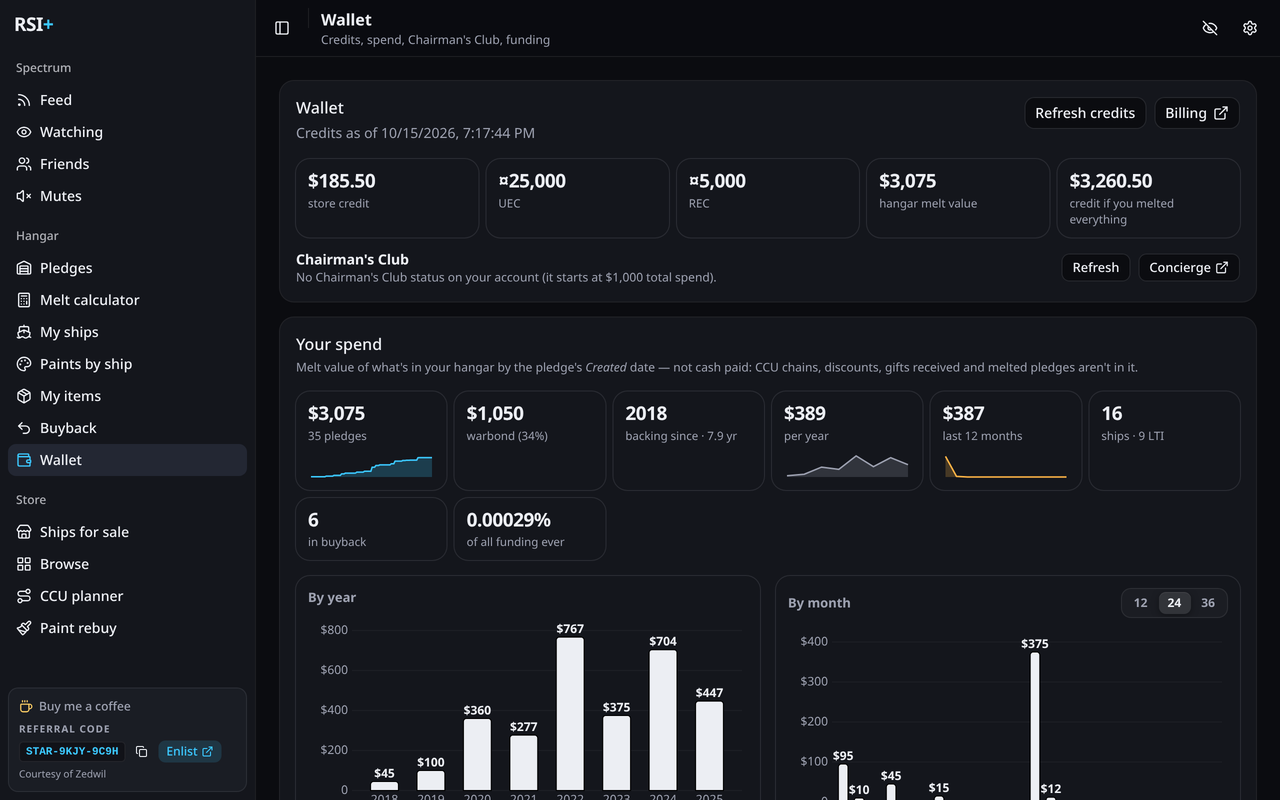
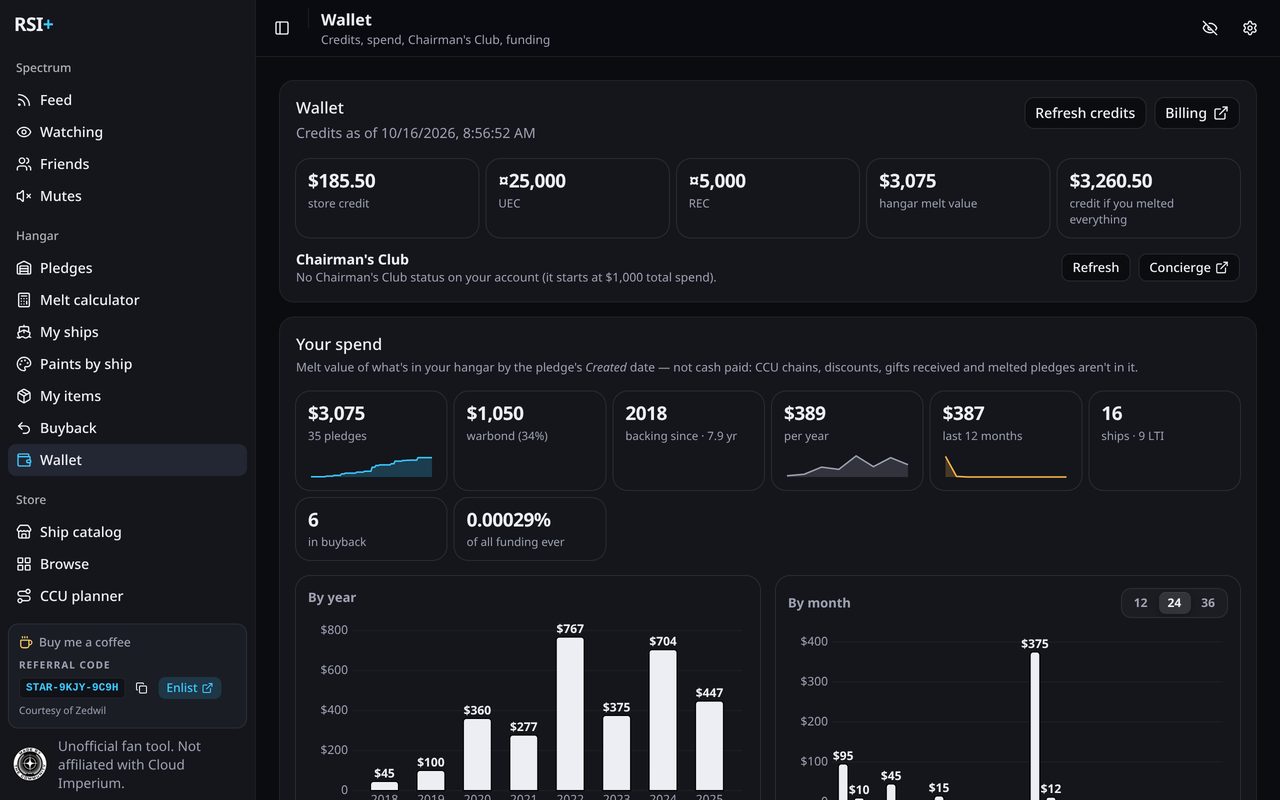
feat: Made By The Community badge and fan-project trademark notice (sidebar, page footer, popup)

diff --git a/src/components/FanNotice.svelte b/src/components/FanNotice.svelte
@@ -1,0 +1,48 @@
+<script lang="ts">
+  /**
+   * Star Citizen Fankit requirements (08_Fankit_Guidelines.pdf, 2025-11-19): the *Made By The Community* logo
+   * (unaltered: no recolour, flip, distortion, outline or shadow; ≥ 50 % opacity; legible size) together with the
+   * trademark notice, in a legible font no smaller than 10 pt, in an always-visible navigation area and/or the home
+   * page. Plus our own "not affiliated" line. White badge on dark themes, black badge on light themes (both are the
+   * kit's own files, only resized — public/fankit/).
+   * - `sidebar`: hub sidebar footer, always visible: badge + one short "unofficial" line (full notice as tooltip);
+   *   collapsed to icons, just the badge. Kept short so the nav above isn't pushed off-screen.
+   * - `footer`: under every hub page, the full notice (the Feed home page included; covers the mobile sheet).
+   * - `popup`: bottom of the toolbar popup.
+   */
+  import * as Tooltip from '@/components/ui/tooltip';
+  import { cn } from '@/lib/utils';
+
+  let { variant = 'footer', collapsed = false, class: klass = '' }: { variant?: 'sidebar' | 'footer' | 'popup'; collapsed?: boolean; class?: string } = $props();
+
+  const TRADEMARK = 'Star Citizen®, Roberts Space Industries® and Cloud Imperium® are registered trademarks of Cloud Imperium Rights LLC.';
+  const UNOFFICIAL = 'RSI+ is an unofficial Star Citizen fan tool, not affiliated with or endorsed by the Cloud Imperium group of companies.';
+  const SHORT = 'Unofficial fan tool. Not affiliated with Cloud Imperium.';
+  const size = 44;
+</script>
+
+{#snippet badge(px: number)}
+  <span class="inline-flex shrink-0" style:width={`${px}px`} style:height={`${px}px`}>
+    <img src="/fankit/made-by-the-community-white.png" alt="Made By The Community" width={px} height={px} class="block [[data-theme=light]_&]:hidden" />
+    <img src="/fankit/made-by-the-community-black.png" alt="Made By The Community" width={px} height={px} class="hidden [[data-theme=light]_&]:block" />
+  </span>
+{/snippet}
+
+{#if variant === 'sidebar'}
+  <Tooltip.Root>
+    <Tooltip.Trigger class={cn('text-muted-foreground flex cursor-default items-center gap-2.5 text-left text-[13.5px] leading-snug', collapsed && 'mx-auto', klass)} aria-label="Made By The Community, unofficial fan tool">
+      {@render badge(collapsed ? 32 : 36)}
+      {#if !collapsed}<span>{SHORT}</span>{/if}
+    </Tooltip.Trigger>
+    <Tooltip.Content side="right" class="max-w-72 text-[13.5px] leading-snug">{UNOFFICIAL} {TRADEMARK}</Tooltip.Content>
+  </Tooltip.Root>
+{:else}
+  <!-- 13.5px ≈ 10pt: the guidelines' minimum for the notice. -->
+  <aside class={cn('text-muted-foreground flex items-start gap-2.5 text-[13.5px] leading-snug', variant === 'footer' && 'border-t pt-4', klass)} aria-label="Fan project notice">
+    {@render badge(size)}
+    <p class="m-0 grid gap-1">
+      <span>{UNOFFICIAL}</span>
+      <span>{TRADEMARK}</span>
+    </p>
+  </aside>
+{/if}

diff --git a/src/entrypoints/hub/Hub.svelte b/src/entrypoints/hub/Hub.svelte
@@ -16,6 +16,8 @@
   import AccountSwitch from '@/components/AccountSwitch.svelte';
   import NavItem from './NavItem.svelte';
   import SidebarSupport from './SidebarSupport.svelte';
+  import FanNotice from '@/components/FanNotice.svelte';
+  import SidebarFan from './SidebarFan.svelte';
   import * as Sidebar from '@/components/ui/sidebar';
   import * as Tooltip from '@/components/ui/tooltip';
   import { Separator } from '@/components/ui/separator';
@@ -184,6 +186,7 @@
       </Sidebar.Content>
       <Sidebar.Footer>
         <SidebarSupport />
+        <SidebarFan />
       </Sidebar.Footer>
       <Sidebar.Rail />
     </Sidebar.Root>
@@ -248,6 +251,7 @@
         {:else}
           <MutesPanel />
         {/if}
+        <FanNotice variant="footer" class="mt-10" />
       </main>
     </Sidebar.Inset>
   </Sidebar.Provider>

diff --git a/src/entrypoints/popup/App.svelte b/src/entrypoints/popup/App.svelte
@@ -1,4 +1,5 @@
 <script lang="ts">
+  import FanNotice from '@/components/FanNotice.svelte';
   import { bg, type HubTab } from '@/lib/messages';
   import { INCOGNITO, feedItem, getSettings, partyModeItem, patchSettings, type Settings } from '@/lib/settings';
   import { partyActive, type PartyMode } from '@/lib/friends';
@@ -123,5 +124,6 @@
         {/each}
       </section>
     {/if}
+    <FanNotice variant="popup" class="border-t pt-3" />
   </main>
 </Tooltip.Provider>

diff --git a/src/entrypoints/hub/SidebarFan.svelte b/src/entrypoints/hub/SidebarFan.svelte
@@ -1,0 +1,10 @@
+<script lang="ts">
+  /** Fankit logo + notices in the sidebar footer (needs the sidebar context to know when it is collapsed to icons). */
+  import FanNotice from '@/components/FanNotice.svelte';
+  import * as Sidebar from '@/components/ui/sidebar';
+
+  const sidebar = Sidebar.useSidebar();
+  const collapsed = $derived(sidebar.state === 'collapsed' && !sidebar.isMobile);
+</script>
+
+<FanNotice variant="sidebar" {collapsed} class="px-1" />

diff --git a/store/shoot.py b/store/shoot.py
@@ -149,6 +149,7 @@ def main():
                await pick('From ship', 'Cutlass Black'); if (t) await pick('Target ship', t.name); await sleep(2500);
                const el = [...document.querySelectorAll('span')].find((e) => e.innerText === 'to pay now'); (el?.closest('[data-slot=card]')?.parentElement ?? document.querySelector('fieldset, [role=group]'))?.scrollIntoView({{ block: 'start' }}); window.scrollBy(0, -240); return t?.name; }})()"""),
             ('wallet', '#wallet', {}, None),
+            ('fan-footer', '#feed', {}, "window.scrollTo(0, document.body.scrollHeight); 1"),
             ('browse', '#browse', {}, f"(async () => {{ const sleep = {SLEEP}; for (let i = 0; i < 40 && !/listings · prices/.test(document.body.innerText); i++) await sleep(500); }})()"),
             ('store', '#store', {}, f"(async () => {{ const sleep = {SLEEP}; [...document.querySelectorAll('th button, th [role=button]')].find((b) => /Discount/.test(b.innerText))?.click(); await sleep(400); }})()"),
             ('ships', '#fleet', {}, None),

diff --git a/docs/architecture.md b/docs/architecture.md
@@ -211,3 +211,9 @@ Every store thumbnail in the hub (paints by ship, My ships, compare, Store, Pain
 - Browser targets (`wxt zip -b chrome|edge|brave|firefox`; brave and edge are the chrome MV3 build under their own name — WXT treats any non-firefox/safari target as MV3 Chromium): the manifest fn in `wxt.config.ts` branches on `browser === 'firefox'` — no `offscreen` permission, no `incognito: 'split'` (Firefox would install it as `not_allowed`; spanning instead, so private windows share the normal login and the `INCOGNITO` prefix only applies to pages opened from a private window), `browser_specific_settings.gecko` (id `rsi-plus@nylegarcia.github.io`, `strict_min_version` 128 for manifest `world: MAIN`, `data_collection_permissions: none`). Firefox builds MV2 (WXT default): `browser_action`, persistent background page → `lib/sound.ts` plays the ding in-page via `lib/ding-synth.ts` (shared with the Chromium offscreen document, which `<meta name="manifest.exclude">` drops from the Firefox build); `updateBadge` falls back to `browser.browserAction`. Not yet verified in a real Firefox (todo).
 - CI does not auto-run on the release PR with the default `GITHUB_TOKEN` (GitHub limitation); re-run manually or switch to a PAT later.
 - `docs/changelog.md` stays the hand-written user-facing log; `CHANGELOG.md` is generated.
+
+## Fankit notice (`src/components/FanNotice.svelte`)
+- Source: RSI Fankit 2025-11-19, `08_Fankit_Guidelines.pdf` §2 / §2b: a fan project shows the *Made By The Community* logo (≥ 50 % opacity, legible size, never recoloured, flipped, distorted, outlined or shadowed) **and** the trademark notice "Star Citizen®, Roberts Space Industries® and Cloud Imperium® are registered trademarks of Cloud Imperium Rights LLC", ≥ 10 pt, on the home page and/or an always-visible navigation area. The text-only alternative needs CIG legal approval, so the logo is used.
+- Assets: `public/fankit/made-by-the-community-{white,black}.png` = the kit's `MadeByTheCommunity_White/Black.png` resized to 160 px (no other change). White shows by default, black under `[data-theme=light]`.
+- Placement: `sidebar` variant in the hub sidebar footer (`SidebarFan.svelte`, badge + short "unofficial, not affiliated" line, full text as tooltip; badge only when collapsed), `footer` variant at the end of every hub page's `<main>` (full notice; Feed is the home page), `popup` variant at the bottom of the popup. Text is 13.5 px (≈ 10 pt).
+

diff --git a/docs/changelog.md b/docs/changelog.md
@@ -6,6 +6,7 @@ updated: 2026-10-13
 # Changelog
 
 ## Unreleased
+- **Fan-project notice** per the Star Citizen Fankit guidelines (2025-11-19): the *Made By The Community* badge (white on dark themes, black on light, unaltered) with "Unofficial fan tool. Not affiliated with Cloud Imperium." at the bottom of the hub sidebar, and the full notice plus the required trademark line under every hub page and in the popup.
 - **CCU planner: plan ahead for ships not on sale.** New option *Plan ahead (ships not on sale)* routes through hulls nobody sells a CCU to today at MSRP, marked *Later · wait for a sale*, so a long-term target (an event-only hull) gets a chain: *to pay now* vs *later* tiles, the hull's last-seen-on-sale date, no cart button on waiting steps, *Verify* marks them *waits for a sale*. Waiting never beats a CCU buyable today at the same price. Save the chain and the Feed alerts you (kind *Store*, opens the planner) when one of its waited-for CCUs is in the store; saved chains show *N waiting* and *on sale now* when a leg becomes buyable. The "no chain" message offers to turn the option on.
 - **Ship catalog** (was *Ships for sale*): the page always listed every hull — now it says so (hull / on-sale counts), filters *Not on sale now (N)* and *Concept ships*, and each not-on-sale row shows when RSI+ last saw it on sale (history starts at install; RSI has no sale calendar). *Plan CCU* on such a hull opens the planner with Plan ahead on.
 - **Edge and Firefox builds**: every release now ships `rsi-plus-<v>-chrome.zip`, `-edge.zip`, `-brave.zip` (the same MV3 build, named per browser) and `-firefox.zip` (MV2, Firefox 128+; loads via `about:debugging` until an AMO-signed build exists). Firefox has no incognito split (private windows share the normal login) and plays the party ding from its background page.

diff --git a/README.md b/README.md
@@ -42,3 +42,7 @@ Log in on robertsspaceindustries.com in the same browser profile — the extensi
 Store listing: [store/LISTING.md](store/LISTING.md) · privacy: [PRIVACY.md](PRIVACY.md).
 
 Docs: [docs/README.md](docs/README.md) · [architecture](docs/architecture.md) · [changelog](docs/changelog.md).
+
+---
+RSI+ is an unofficial Star Citizen fan tool, not affiliated with or endorsed by the Cloud Imperium group of companies. Star Citizen®, Roberts Space Industries® and Cloud Imperium® are registered trademarks of Cloud Imperium Rights LLC. The *Made By The Community* logo is from the official [Star Citizen Fankit](https://robertsspaceindustries.com/fankit), used under its terms.
+
